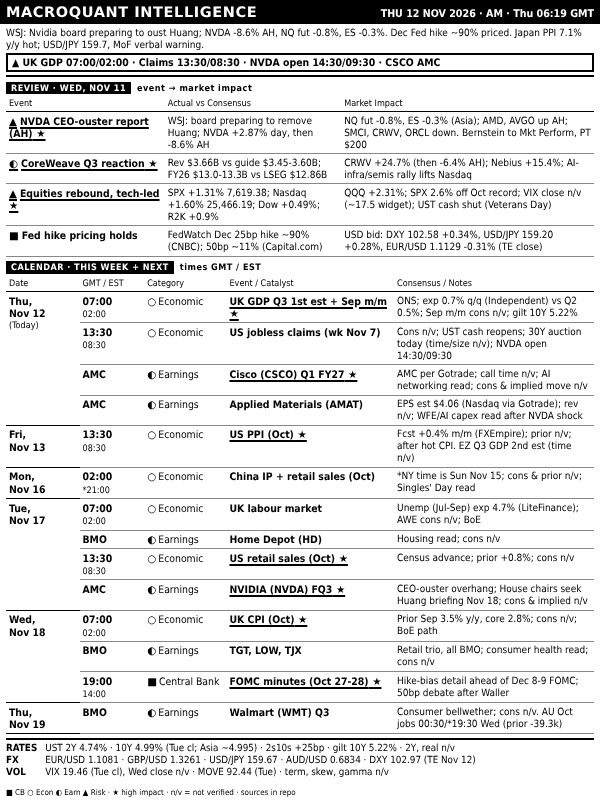
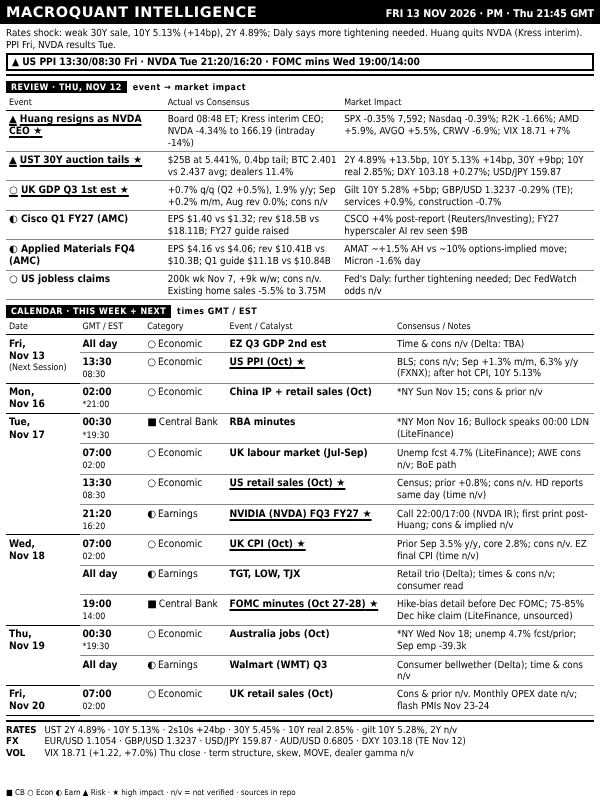
dashboard: FRI 13 NOV 2026 PM
Claude-Session: https://claude.ai/code/session_016SJqa4psdvVHgS3UoYEB3B

Changed region(s): [[0.0, 0.0, 0.99, 0.9688], [0.0, 0.5938, 0.09, 0.7188], [0.0, 0.75, 0.09, 0.8125]]

diff --git a/out/dashboard.html b/out/dashboard.html
@@ -38,12 +38,12 @@ table.bd{border-collapse:collapse;width:100%;table-layout:fixed;margin-top:1px}
 </style></head><body>
 <div id="root">
  <div class="hdr"><span class="t">MACROQUANT INTELLIGENCE</span>
-  <span class="r">THU 12 NOV 2026 · AM · Thu 06:19 GMT</span></div>
- <div class="ban"><div class="rg">WSJ: Nvidia board preparing to oust Huang; NVDA -8.6% AH, NQ fut -0.8%, ES -0.3%. Dec Fed hike ~90% priced. Japan PPI 7.1% y/y hot; USD/JPY 159.7, MoF verbal warning.</div><div class="al">▲ UK GDP 07:00/02:00 · Claims 13:30/08:30 · NVDA open 14:30/09:30 · CSCO AMC</div></div>
- <div class="sl"><span>REVIEW · WED, NOV 11</span>event → market impact</div><table class="bd rv"><colgroup><col style="width:27%"><col style="width:30%"><col></colgroup><tr><th>Event</th><th>Actual vs Consensus</th><th>Market Impact</th></tr><tr class="h"><td class="ev"><i>▲</i>NVDA CEO-ouster report (AH)</td><td class="ac">WSJ: board preparing to remove Huang; NVDA +2.87% day, then -8.6% AH</td><td class="nt">NQ fut -0.8%, ES -0.3% (Asia); AMD, AVGO up AH; SMCI, CRWV, ORCL down. Bernstein to Mkt Perform, PT $200</td></tr><tr class="h"><td class="ev"><i>◐</i>CoreWeave Q3 reaction</td><td class="ac">Rev $3.66B vs guide $3.45-3.60B; FY26 $13.0-13.3B vs LSEG $12.86B</td><td class="nt">CRWV +24.7% (then -6.4% AH); Nebius +15.4%; AI-infra/semis rally lifts Nasdaq</td></tr><tr class="h"><td class="ev"><i>▲</i>Equities rebound, tech-led</td><td class="ac">SPX +1.31% 7,619.38; Nasdaq +1.60% 25,466.19; Dow +0.49%; R2K +0.9%</td><td class="nt">QQQ +2.31%; SPX 2.6% off Oct record; VIX close n/v (~17.5 widget); UST cash shut (Veterans Day)</td></tr><tr><td class="ev"><i>■</i>Fed hike pricing holds</td><td class="ac">FedWatch Dec 25bp hike ~90% (CNBC); 50bp ~11% (Capital.com)</td><td class="nt">USD bid: DXY 102.58 +0.34%, USD/JPY 159.20 +0.28%, EUR/USD 1.1129 -0.31% (TE close)</td></tr></table>
+  <span class="r">FRI 13 NOV 2026 · PM · Thu 21:45 GMT</span></div>
+ <div class="ban"><div class="rg">Rates shock: weak 30Y sale, 10Y 5.13% (+14bp), 2Y 4.89%; Daly says more tightening needed. Huang quits NVDA (Kress interim). PPI Fri, NVDA results Tue.</div><div class="al">▲ US PPI 13:30/08:30 Fri · NVDA Tue 21:20/16:20 · FOMC mins Wed 19:00/14:00</div></div>
+ <div class="sl"><span>REVIEW · THU, NOV 12</span>event → market impact</div><table class="bd rv"><colgroup><col style="width:27%"><col style="width:30%"><col></colgroup><tr><th>Event</th><th>Actual vs Consensus</th><th>Market Impact</th></tr><tr class="h"><td class="ev"><i>▲</i>Huang resigns as NVDA CEO</td><td class="ac">Board 08:48 ET; Kress interim CEO; NVDA -4.34% to 166.19 (intraday -14%)</td><td class="nt">SPX -0.35% 7,592; Nasdaq -0.39%; R2K -1.66%; AMD +5.9%, AVGO +5.5%, CRWV -6.9%; VIX 18.71 +7%</td></tr><tr class="h"><td class="ev"><i>▲</i>UST 30Y auction tails</td><td class="ac">$25B at 5.441%, 0.4bp tail; BTC 2.401 vs 2.437 avg; dealers 11.4%</td><td class="nt">2Y 4.89% +13.5bp, 10Y 5.13% +14bp, 30Y +9bp; 10Y real 2.85%; DXY 103.18 +0.27%; USD/JPY 159.87</td></tr><tr class="h"><td class="ev"><i>○</i>UK GDP Q3 1st est</td><td class="ac">+0.7% q/q (Q2 +0.5%), 1.9% y/y; Sep +0.2% m/m, Aug rev 0.0%; cons n/v</td><td class="nt">Gilt 10Y 5.28% +5bp; GBP/USD 1.3237 -0.29% (TE); services +0.9%, construction -0.7%</td></tr><tr><td class="ev"><i>◐</i>Cisco Q1 FY27 (AMC)</td><td class="ac">EPS $1.40 vs $1.32; rev $18.5B vs $18.11B; FY27 guide raised</td><td class="nt">CSCO +4% post-report (Reuters/Investing); FY27 hyperscaler AI rev seen $9B</td></tr><tr><td class="ev"><i>◐</i>Applied Materials FQ4 (AMC)</td><td class="ac">EPS $4.16 vs $4.06; rev $10.41B vs $10.3B; Q1 guide $11.1B vs $10.84B</td><td class="nt">AMAT ~+1.5% AH vs ~10% options-implied move; Micron -1.6% day</td></tr><tr><td class="ev"><i>○</i>US jobless claims</td><td class="ac">200k wk Nov 7, +9k w/w; cons n/v. Existing home sales -5.5% to 3.75M</td><td class="nt">Fed's Daly: further tightening needed; Dec FedWatch odds n/v</td></tr></table>
  <div class="sl"><span>CALENDAR · THIS WEEK + NEXT</span>times GMT / EST</div>
- <table class="bd"><colgroup><col style="width:12.5%"><col style="width:11%"><col style="width:14%"><col style="width:28.5%"><col></colgroup><tr><th>Date</th><th>GMT / EST</th><th>Category</th><th>Event / Catalyst</th><th>Consensus / Notes</th></tr><tr class="g0 h"><td class="dt" rowspan="4">Thu,<br>Nov&nbsp;12<span class="tg">(Today)</span></td><td class="tm"><b>07:00</b><span>02:00</span></td><td class="ct"><i>○</i>Economic</td><td class="ev">UK GDP Q3 1st est + Sep m/m</td><td class="nt">ONS; exp 0.7% q/q (Independent) vs Q2 0.5%; Sep m/m cons n/v; gilt 10Y 5.22%</td></tr><tr class=""><td class="tm"><b>13:30</b><span>08:30</span></td><td class="ct"><i>○</i>Economic</td><td class="ev">US jobless claims (wk Nov 7)</td><td class="nt">Cons n/v; UST cash reopens; 30Y auction today (time/size n/v); NVDA open 14:30/09:30</td></tr><tr class="h"><td class="tm"><b>AMC</b></td><td class="ct"><i>◐</i>Earnings</td><td class="ev">Cisco (CSCO) Q1 FY27</td><td class="nt">AMC per Gotrade; call time n/v; AI networking read; cons &amp; implied move n/v</td></tr><tr class=""><td class="tm"><b>AMC</b></td><td class="ct"><i>◐</i>Earnings</td><td class="ev">Applied Materials (AMAT)</td><td class="nt">EPS est $4.06 (Nasdaq via Gotrade); rev n/v; WFE/AI capex read after NVDA shock</td></tr><tr class="g0 h"><td class="dt" rowspan="1">Fri,<br>Nov&nbsp;13</td><td class="tm"><b>13:30</b><span>08:30</span></td><td class="ct"><i>○</i>Economic</td><td class="ev">US PPI (Oct)</td><td class="nt">Fcst +0.4% m/m (FXEmpire); prior n/v; after hot CPI. EZ Q3 GDP 2nd est (time n/v)</td></tr><tr class="g0"><td class="dt" rowspan="1">Mon,<br>Nov&nbsp;16</td><td class="tm"><b>02:00</b><span>*21:00</span></td><td class="ct"><i>○</i>Economic</td><td class="ev">China IP + retail sales (Oct)</td><td class="nt">*NY time is Sun Nov 15; cons &amp; prior n/v; Singles' Day read</td></tr><tr class="g0"><td class="dt" rowspan="4">Tue,<br>Nov&nbsp;17</td><td class="tm"><b>07:00</b><span>02:00</span></td><td class="ct"><i>○</i>Economic</td><td class="ev">UK labour market</td><td class="nt">Unemp (Jul-Sep) exp 4.7% (LiteFinance); AWE cons n/v; BoE</td></tr><tr class=""><td class="tm"><b>BMO</b></td><td class="ct"><i>◐</i>Earnings</td><td class="ev">Home Depot (HD)</td><td class="nt">Housing read; cons n/v</td></tr><tr class="h"><td class="tm"><b>13:30</b><span>08:30</span></td><td class="ct"><i>○</i>Economic</td><td class="ev">US retail sales (Oct)</td><td class="nt">Census advance; prior +0.8%; cons n/v</td></tr><tr class="h"><td class="tm"><b>AMC</b></td><td class="ct"><i>◐</i>Earnings</td><td class="ev">NVIDIA (NVDA) FQ3</td><td class="nt">CEO-ouster overhang; House chairs seek Huang briefing Nov 18; cons &amp; implied n/v</td></tr><tr class="g0 h"><td class="dt" rowspan="3">Wed,<br>Nov&nbsp;18</td><td class="tm"><b>07:00</b><span>02:00</span></td><td class="ct"><i>○</i>Economic</td><td class="ev">UK CPI (Oct)</td><td class="nt">Prior Sep 3.5% y/y, core 2.8%; cons n/v; BoE path</td></tr><tr class=""><td class="tm"><b>BMO</b></td><td class="ct"><i>◐</i>Earnings</td><td class="ev">TGT, LOW, TJX</td><td class="nt">Retail trio, all BMO; consumer health read; cons n/v</td></tr><tr class="h"><td class="tm"><b>19:00</b><span>14:00</span></td><td class="ct"><i>■</i>Central Bank</td><td class="ev">FOMC minutes (Oct 27-28)</td><td class="nt">Hike-bias detail ahead of Dec 8-9 FOMC; 50bp debate after Waller</td></tr><tr class="g0"><td class="dt" rowspan="1">Thu,<br>Nov&nbsp;19</td><td class="tm"><b>BMO</b></td><td class="ct"><i>◐</i>Earnings</td><td class="ev">Walmart (WMT) Q3</td><td class="nt">Consumer bellwether; cons n/v. AU Oct jobs 00:30/*19:30 Wed (prior -39.3k)</td></tr></table>
- <div class="lv"><div><b>RATES</b>UST 2Y 4.74% · 10Y 4.99% (Tue cl; Asia ~4.995) · 2s10s +25bp · gilt 10Y 5.22% · 2Y, real n/v</div><div><b>FX</b>EUR/USD 1.1081 · GBP/USD 1.3261 · USD/JPY 159.67 · AUD/USD 0.6834 · DXY 102.97 (TE Nov 12)</div><div><b>VOL</b>VIX 19.46 (Tue cl), Wed close n/v · MOVE 92.44 (Tue) · term, skew, gamma n/v</div></div>
+ <table class="bd"><colgroup><col style="width:12.5%"><col style="width:11%"><col style="width:14%"><col style="width:28.5%"><col></colgroup><tr><th>Date</th><th>GMT / EST</th><th>Category</th><th>Event / Catalyst</th><th>Consensus / Notes</th></tr><tr class="g0"><td class="dt" rowspan="2">Fri,<br>Nov&nbsp;13<span class="tg">(Next Session)</span></td><td class="tm"><b>All day</b></td><td class="ct"><i>○</i>Economic</td><td class="ev">EZ Q3 GDP 2nd est</td><td class="nt">Time &amp; cons n/v (Delta: TBA)</td></tr><tr class="h"><td class="tm"><b>13:30</b><span>08:30</span></td><td class="ct"><i>○</i>Economic</td><td class="ev">US PPI (Oct)</td><td class="nt">BLS; cons n/v; Sep +1.3% m/m, 6.3% y/y (FXNX); after hot CPI, 10Y 5.13%</td></tr><tr class="g0"><td class="dt" rowspan="1">Mon,<br>Nov&nbsp;16</td><td class="tm"><b>02:00</b><span>*21:00</span></td><td class="ct"><i>○</i>Economic</td><td class="ev">China IP + retail sales (Oct)</td><td class="nt">*NY Sun Nov 15; cons &amp; prior n/v</td></tr><tr class="g0"><td class="dt" rowspan="4">Tue,<br>Nov&nbsp;17</td><td class="tm"><b>00:30</b><span>*19:30</span></td><td class="ct"><i>■</i>Central Bank</td><td class="ev">RBA minutes</td><td class="nt">*NY Mon Nov 16; Bullock speaks 00:00 LDN (LiteFinance)</td></tr><tr class=""><td class="tm"><b>07:00</b><span>02:00</span></td><td class="ct"><i>○</i>Economic</td><td class="ev">UK labour market (Jul-Sep)</td><td class="nt">Unemp fcst 4.7% (LiteFinance); AWE cons n/v; BoE path</td></tr><tr class="h"><td class="tm"><b>13:30</b><span>08:30</span></td><td class="ct"><i>○</i>Economic</td><td class="ev">US retail sales (Oct)</td><td class="nt">Census; prior +0.8%; cons n/v. HD reports same day (time n/v)</td></tr><tr class="h"><td class="tm"><b>21:20</b><span>16:20</span></td><td class="ct"><i>◐</i>Earnings</td><td class="ev">NVIDIA (NVDA) FQ3 FY27</td><td class="nt">Call 22:00/17:00 (NVDA IR); first print post-Huang; cons &amp; implied n/v</td></tr><tr class="g0 h"><td class="dt" rowspan="3">Wed,<br>Nov&nbsp;18</td><td class="tm"><b>07:00</b><span>02:00</span></td><td class="ct"><i>○</i>Economic</td><td class="ev">UK CPI (Oct)</td><td class="nt">Prior Sep 3.5% y/y, core 2.8%; cons n/v. EZ final CPI (time n/v)</td></tr><tr class=""><td class="tm"><b>All day</b></td><td class="ct"><i>◐</i>Earnings</td><td class="ev">TGT, LOW, TJX</td><td class="nt">Retail trio (Delta); times &amp; cons n/v; consumer read</td></tr><tr class="h"><td class="tm"><b>19:00</b><span>14:00</span></td><td class="ct"><i>■</i>Central Bank</td><td class="ev">FOMC minutes (Oct 27-28)</td><td class="nt">Hike-bias detail before Dec FOMC; 75-85% Dec hike claim (LiteFinance, unsourced)</td></tr><tr class="g0"><td class="dt" rowspan="2">Thu,<br>Nov&nbsp;19</td><td class="tm"><b>00:30</b><span>*19:30</span></td><td class="ct"><i>○</i>Economic</td><td class="ev">Australia jobs (Oct)</td><td class="nt">*NY Wed Nov 18; unemp 4.7% fcst/prior; Sep emp -39.3k</td></tr><tr class=""><td class="tm"><b>All day</b></td><td class="ct"><i>◐</i>Earnings</td><td class="ev">Walmart (WMT) Q3</td><td class="nt">Consumer bellwether (Delta); time &amp; cons n/v</td></tr><tr class="g0"><td class="dt" rowspan="1">Fri,<br>Nov&nbsp;20</td><td class="tm"><b>07:00</b><span>02:00</span></td><td class="ct"><i>○</i>Economic</td><td class="ev">UK retail sales (Oct)</td><td class="nt">Cons &amp; prior n/v. Monthly OPEX date n/v; flash PMIs Nov 23-24</td></tr></table>
+ <div class="lv"><div><b>RATES</b>UST 2Y 4.89% · 10Y 5.13% · 2s10s +24bp · 30Y 5.45% · 10Y real 2.85% · gilt 10Y 5.28%, 2Y n/v</div><div><b>FX</b>EUR/USD 1.1054 · GBP/USD 1.3237 · USD/JPY 159.87 · AUD/USD 0.6805 · DXY 103.18 (TE Nov 12)</div><div><b>VOL</b>VIX 18.71 (+1.22, +7.0%) Thu close · term structure, skew, MOVE, dealer gamma n/v</div></div>
 </div>
 <div class="foot">■ CB ○ Econ ◐ Earn ▲ Risk · ★ high impact · n/v = not verified · sources in repo</div>
 </body></html>
